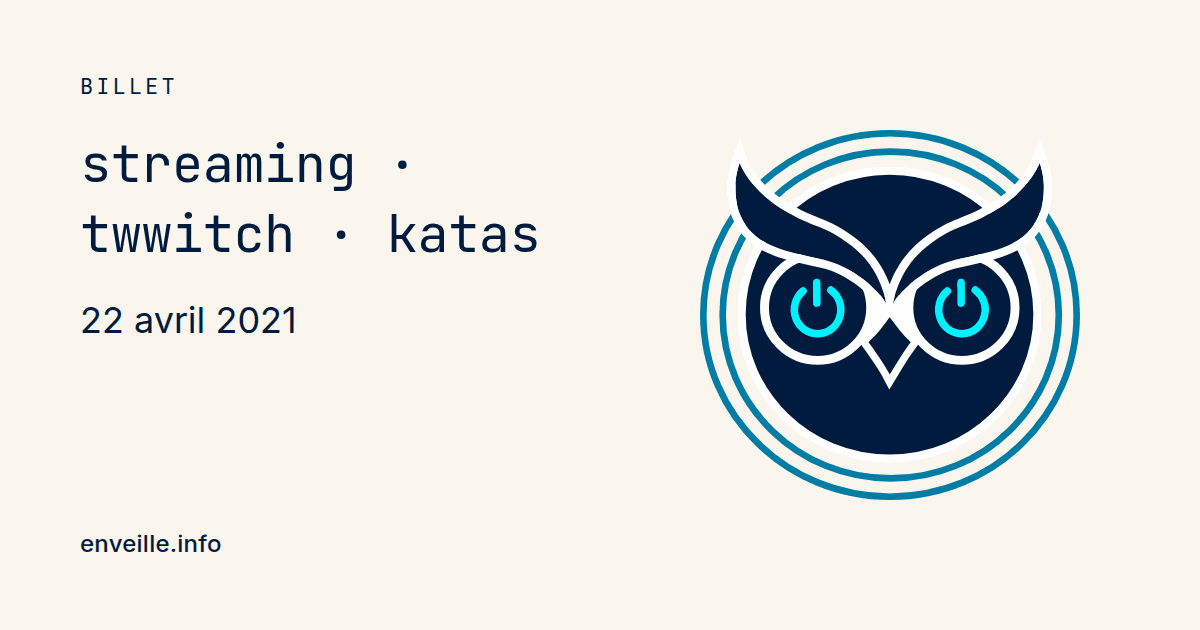
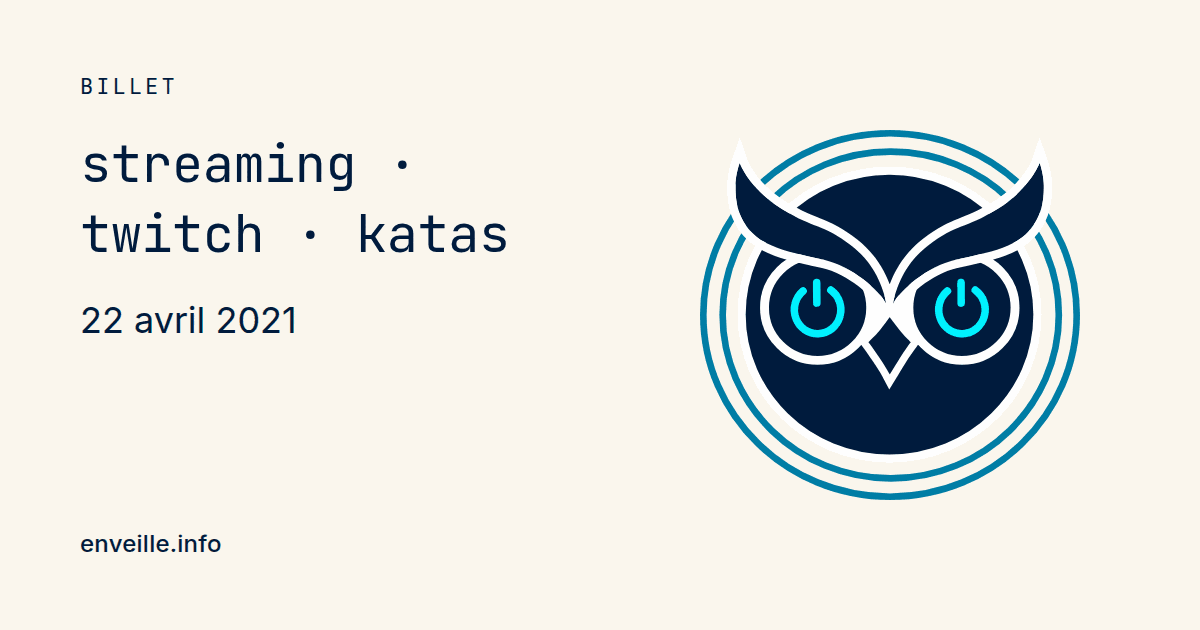
fix: corrige la coquille twwitch dans les tags du billet streaming

Changed region(s): [[0.1233, 0.3317, 0.4625, 0.4222]]

diff --git a/_posts/2021-04-22-streaming.md b/_posts/2021-04-22-streaming.md
@@ -1,7 +1,7 @@
 ---
 title: Streaming de code sur Twitch
 excerpt: "Je me suis lancé il y a quelques semaines, je vous livre mes premiers retours"
-tags: [streaming, twwitch, katas]
+tags: [streaming, twitch, katas]
 modified: 2021-04-22
 comments: true
 header:
